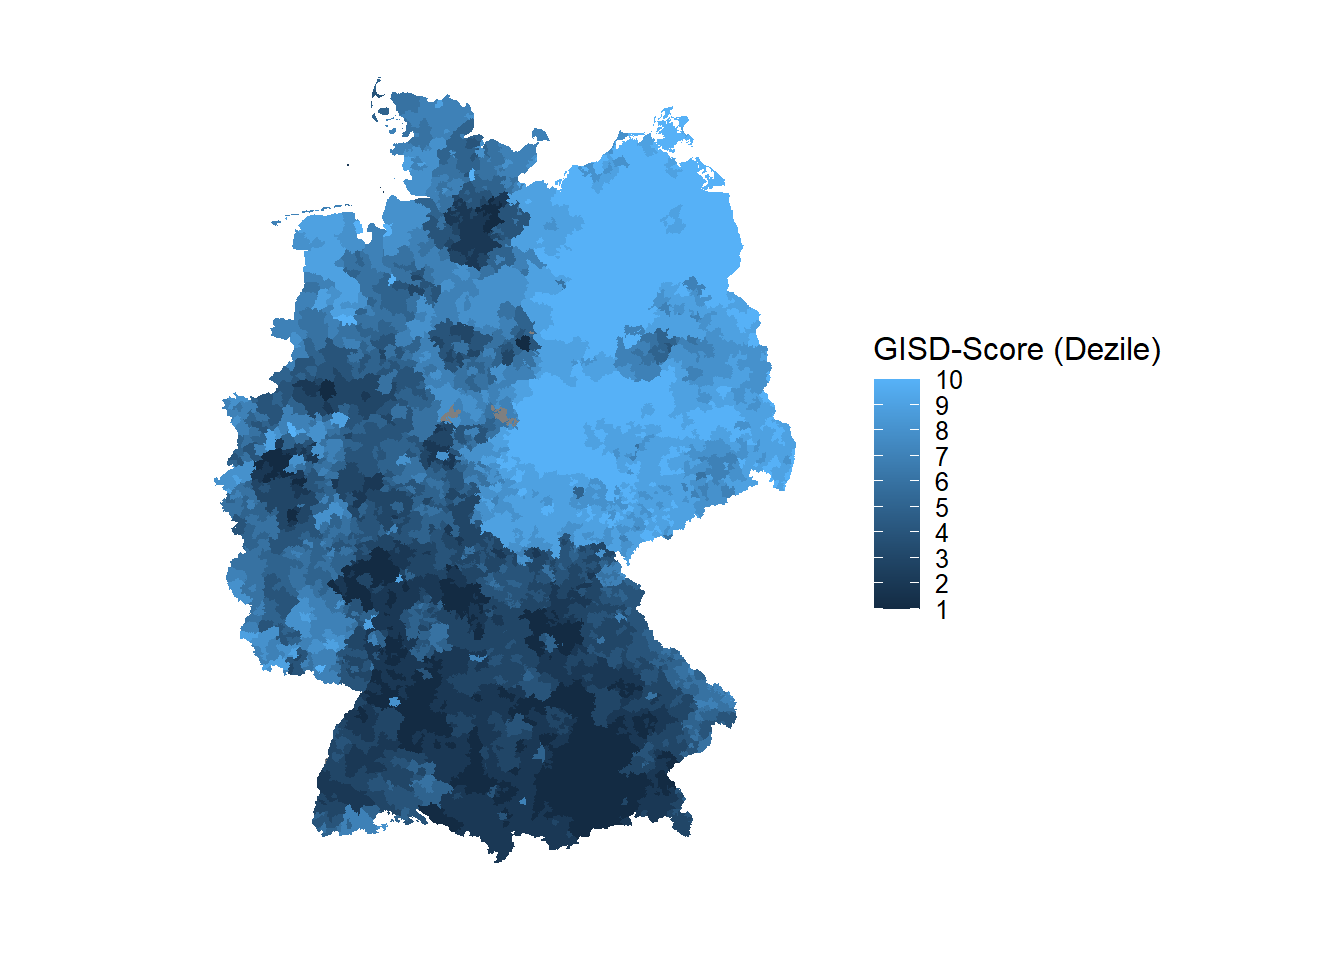
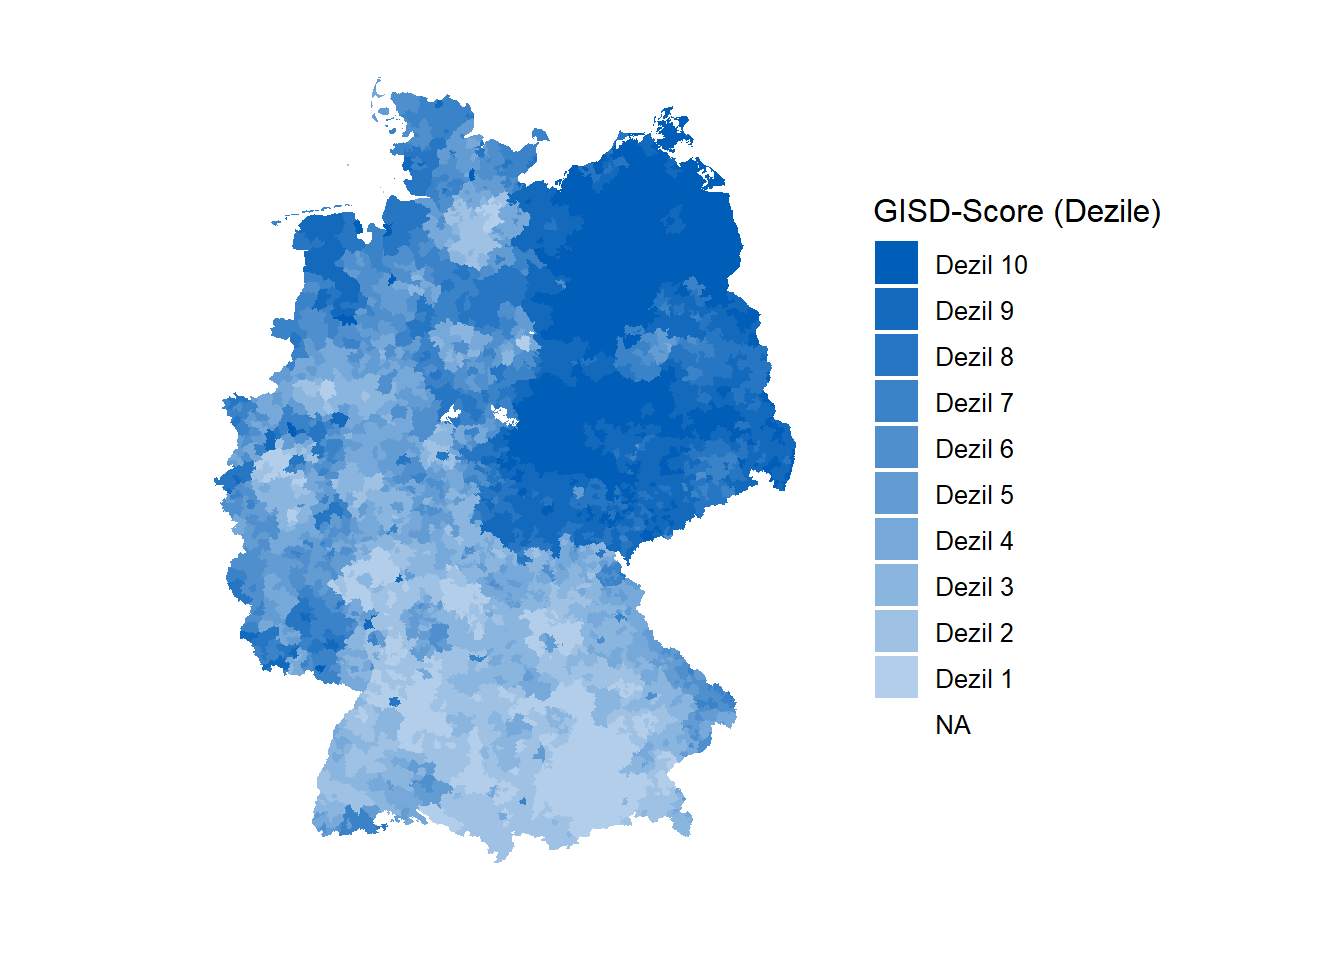
Karte Update

Changed region(s): [[0.1562, 0.0938, 0.5938, 0.9062], [0.625, 0.1875, 0.875, 0.75], [0.6875, 0.75, 0.7188, 0.7812]]

diff --git a/content/docs/karte/index.html b/content/docs/karte/index.html
@@ -13,6 +13,11 @@ weight: 1
 <script src="{{< blogdown/postref >}}index_files/header-attrs/header-attrs.js"></script>
 
 
+<pre><code>## Warning: Unknown levels in `f`: Quintil 1
+
+## Warning: Unknown levels in `f`: Quintil 1
+
+## Warning: Unknown levels in `f`: Quintil 1</code></pre>
 <div id="gisd-score-auf-gemeindeebene" class="section level2">
 <h2>GISD-Score auf Gemeindeebene</h2>
 <p><img src="{{< blogdown/postref >}}index_files/figure-html/unnamed-chunk-2-1.png" width="672" /></p>
